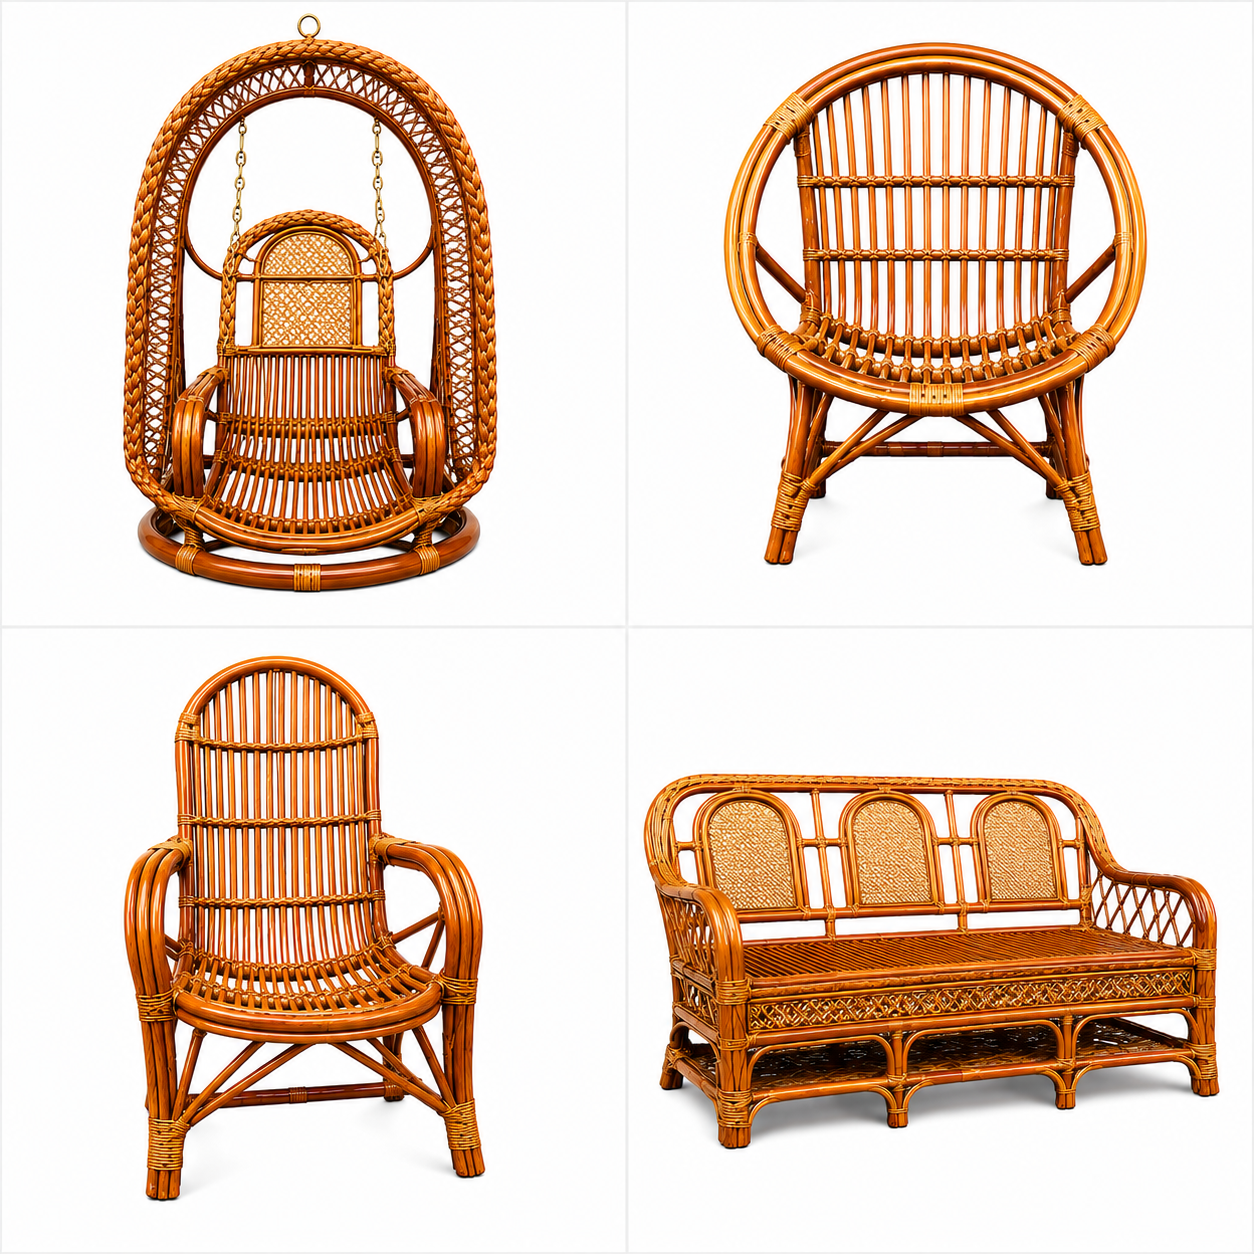
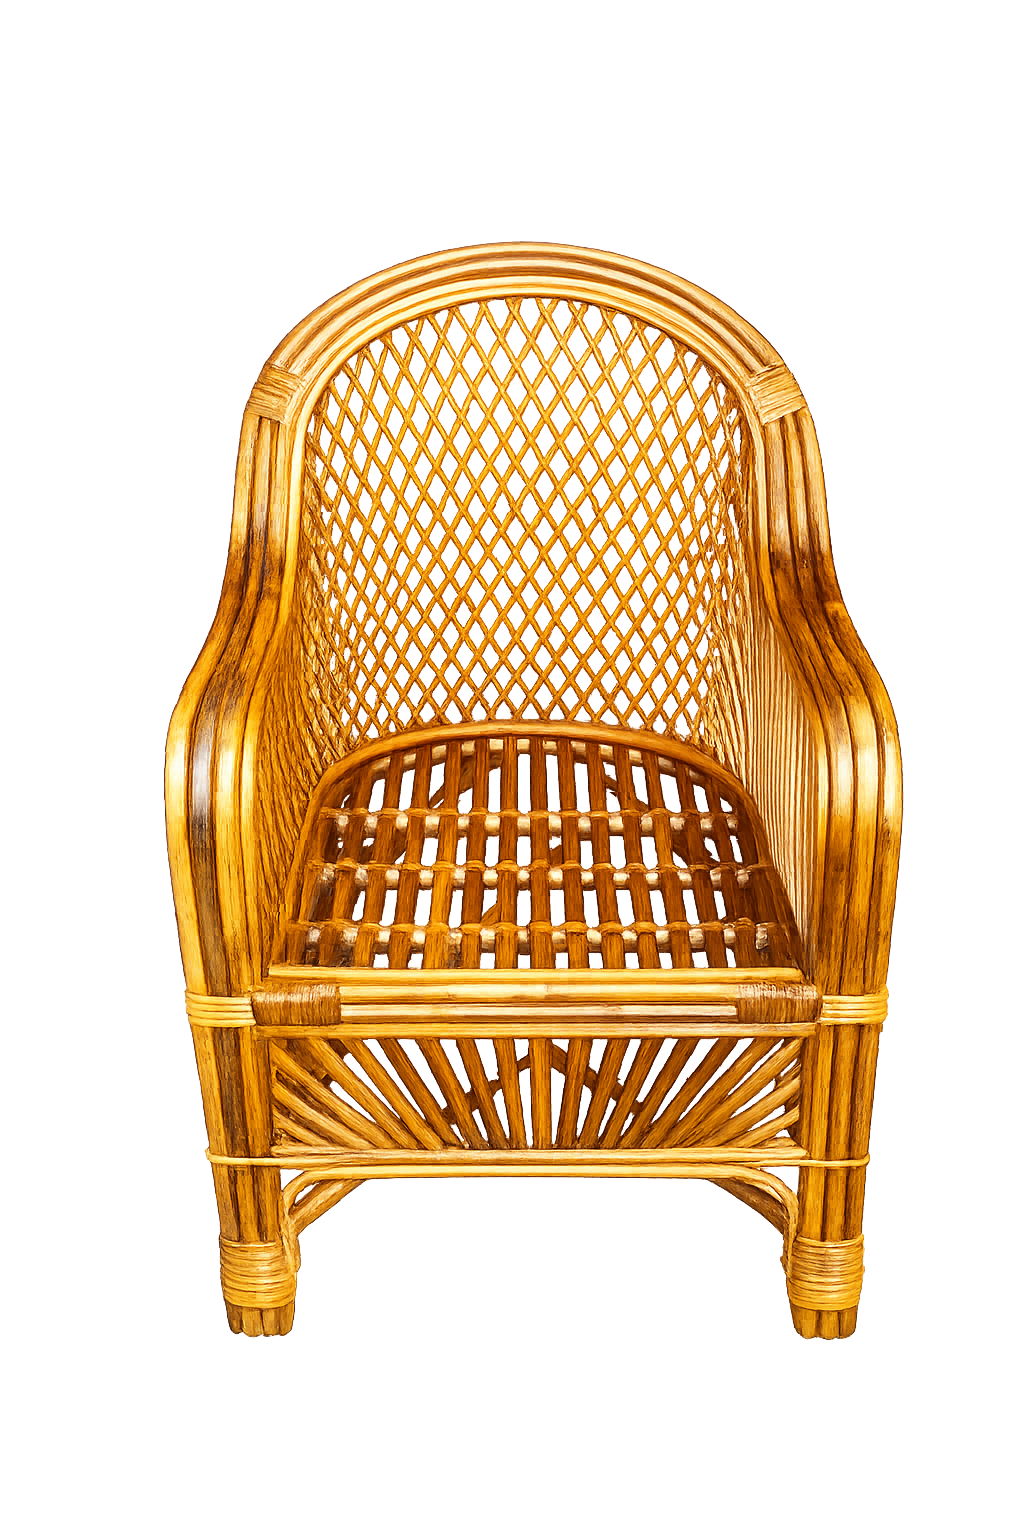
feat: update cane furniture images

diff --git a/src/components/Hero.tsx b/src/components/Hero.tsx
@@ -59,7 +59,7 @@ export const Hero: React.FC = () => {
             <div className="hero-backdrop-glow"></div>
             <div className="hero-image-card">
               <img
-                src={`${import.meta.env.BASE_URL}images/delux-chair.png`}
+                src={`${import.meta.env.BASE_URL}images/chair.png`}
                 alt="Handcrafted Cane Chair by Venkateswara Cane Work in Nellore"
                 loading="eager"
                 className="hero-furniture-img"

diff --git a/src/components/Gallery.tsx b/src/components/Gallery.tsx
@@ -14,7 +14,7 @@ export const Gallery: React.FC = () => {
       id: 'item-1',
       title: t.gallery.items.item1Title,
       category: t.gallery.items.item1Cat,
-      image: `${import.meta.env.BASE_URL}images/delux-chair.png`,
+      image: `${import.meta.env.BASE_URL}images/chair.png`,
       description: t.gallery.items.item1Desc,
     },
     {
